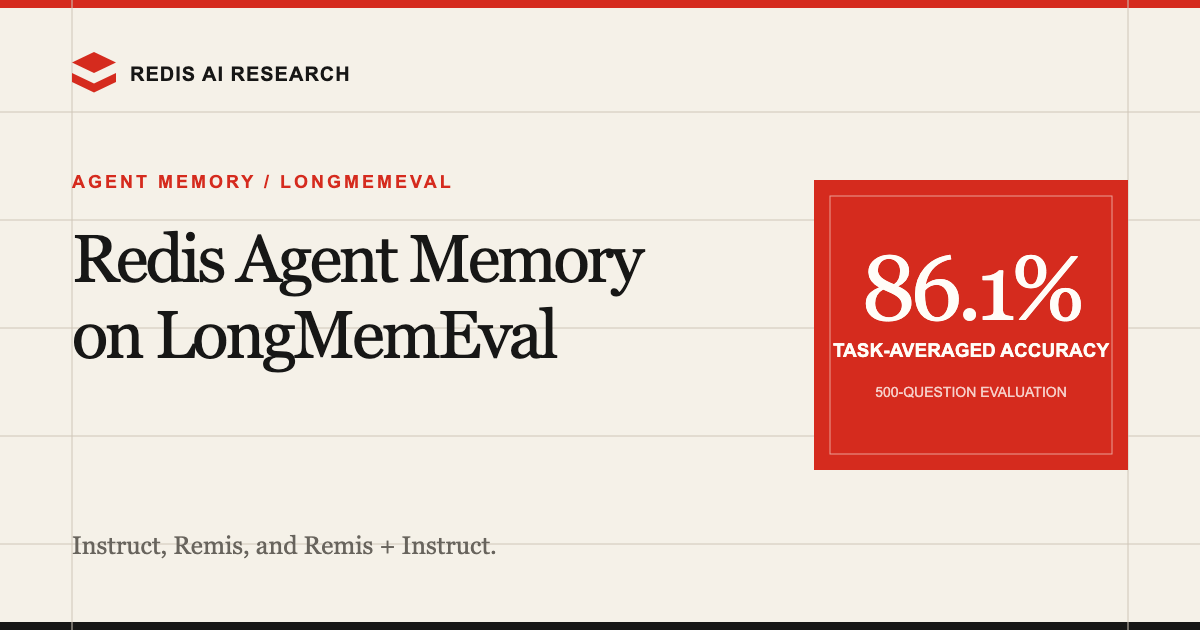
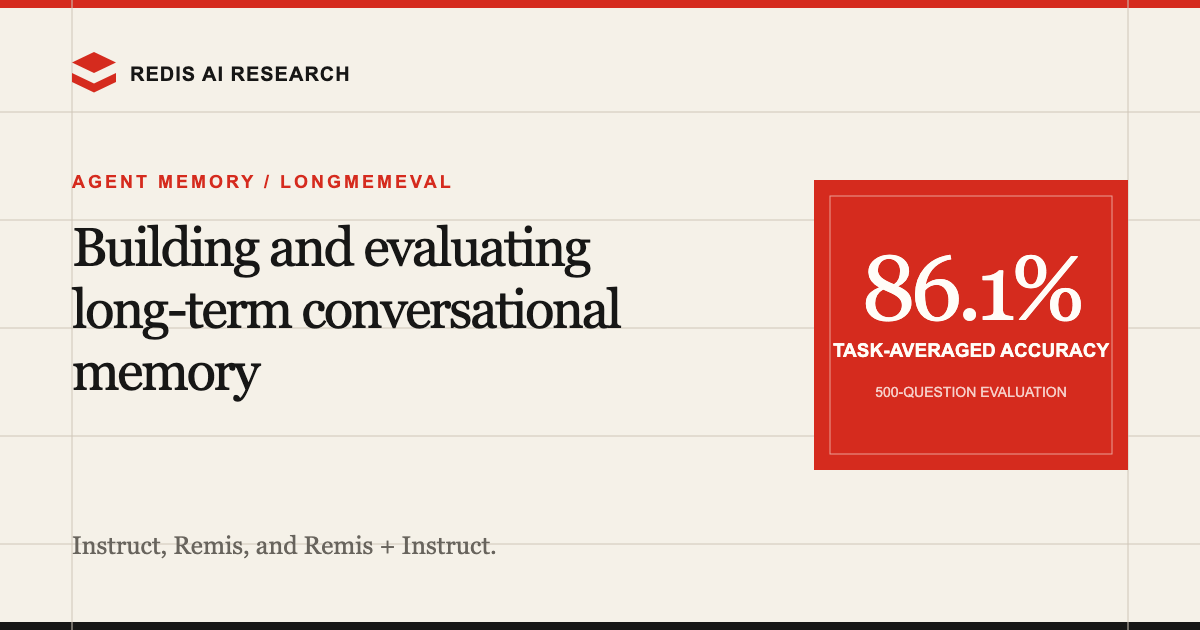
Retitle conversational memory research article
Frame the work around building and evaluating conversational memory rather than a product name, and align homepage and social metadata.

Changed region(s): [[0.0617, 0.3619, 0.555, 0.6333]]

diff --git a/docs/longmemeval-agent-memory/index.html b/docs/longmemeval-agent-memory/index.html
@@ -5,7 +5,7 @@
     <meta name="viewport" content="width=device-width, initial-scale=1.0" />
     <meta
       name="description"
-      content="Results from a 500-question evaluation of Redis Agent Memory strategies on the LongMemEval small split."
+      content="Results from a 500-question evaluation of raw conversation retrieval, extracted memories, and a hybrid configuration on LongMemEval."
     />
     <meta
       name="author"
@@ -13,14 +13,14 @@
     />
     <meta name="theme-color" content="#f5f1e8" />
     <meta property="og:type" content="article" />
-    <meta property="og:title" content="Redis Agent Memory on LongMemEval" />
+    <meta property="og:title" content="Building and evaluating long-term conversational memory" />
     <meta
       property="og:url"
       content="https://redis.github.io/redis-ai-research-public/longmemeval-agent-memory/"
     />
     <meta
       property="og:description"
-      content="A 500-question evaluation of raw conversation retrieval, extracted memories, and a configuration combining both."
+      content="We built and evaluated raw conversation retrieval, extracted memories, and a hybrid approach on 500 LongMemEval questions."
     />
     <meta
       property="og:image"
@@ -30,16 +30,16 @@
     <meta property="og:image:width" content="1200" />
     <meta property="og:image:height" content="630" />
     <meta name="twitter:card" content="summary_large_image" />
-    <meta name="twitter:title" content="Redis Agent Memory on LongMemEval" />
+    <meta name="twitter:title" content="Building and evaluating long-term conversational memory" />
     <meta
       name="twitter:description"
-      content="A 500-question evaluation of raw conversation retrieval, extracted memories, and a configuration combining both."
+      content="We built and evaluated raw conversation retrieval, extracted memories, and a hybrid approach on 500 LongMemEval questions."
     />
     <meta
       name="twitter:image"
       content="https://redis.github.io/redis-ai-research-public/longmemeval-agent-memory/assets/social-card.png"
     />
-    <title>Redis Agent Memory on LongMemEval</title>
+    <title>Building and evaluating long-term conversational memory</title>
     <link rel="stylesheet" href="styles.css?v=20260730-reasoning-effect" />
     <script src="script.js?v=20260730-minimal-tooltips" defer></script>
   </head>
@@ -67,10 +67,11 @@
         <header class="hero" id="top">
           <div class="hero-copy">
             <p class="eyebrow">Agent memory · LongMemEval · June 2026</p>
-            <h1>Redis Agent Memory on LongMemEval</h1>
+            <h1>Building and evaluating long-term conversational memory</h1>
             <p class="dek">
-              We compared raw conversation retrieval, extracted memories, and a combination
-              of the two. Across the completed 500-question evaluation, Remis + Instruct reached
+              We built three approaches to retaining information across conversations—raw
+              retrieval, extracted memories, and a hybrid of both—and evaluated them on 500
+              LongMemEval questions. The hybrid approach reached
               <strong>86.1% task-averaged accuracy</strong>.
             </p>
             <div class="hero-meta">
@@ -117,8 +118,8 @@
 
         <section class="strategy-section" aria-labelledby="strategies-title">
           <div class="section-heading">
-            <p class="section-kicker">Redis Agent Memory</p>
-            <h2 id="strategies-title">Three memory strategies</h2>
+            <p class="section-kicker">Memory strategies</p>
+            <h2 id="strategies-title">Three approaches</h2>
           </div>
 
           <div class="strategy-grid">
@@ -192,7 +193,7 @@
         <section class="results-section" id="results" aria-labelledby="results-title">
           <div class="section-heading">
             <p class="section-kicker">Results</p>
-            <h2 id="results-title">Results for Redis Agent Memory strategies</h2>
+            <h2 id="results-title">Results for the tested strategies</h2>
             <p>
               The figures show overall accuracy, task-level results, and comparisons with
               other memory systems.
@@ -247,7 +248,7 @@
                   <p>LongMemEval small (%)</p>
                 </div>
                 <div class="legend" aria-label="Chart legend">
-                  <span><i class="legend-swatch redis"></i>Redis Agent Memory</span>
+                  <span><i class="legend-swatch redis"></i>Our configurations</span>
                   <span><i class="legend-swatch reproduced"></i>Measured third-party</span>
                   <span><i class="legend-swatch published"></i>Published only</span>
                 </div>
@@ -256,7 +257,7 @@
                 id="leaderboard-chart"
                 class="chart"
                 role="img"
-                aria-label="Leaderboard comparing Redis Agent Memory with measured and published systems"
+                aria-label="Leaderboard comparing our memory configurations with measured and published systems"
               ></div>
             </figure>
             <div class="leaderboard-copy">
@@ -332,7 +333,7 @@
                   <p>Upper-left is better; cost axis is logarithmic</p>
                 </div>
                 <div class="legend" aria-label="Chart legend">
-                  <span><i class="legend-swatch redis"></i>Redis Agent Memory</span>
+                  <span><i class="legend-swatch redis"></i>Our configurations</span>
                   <span><i class="legend-swatch reproduced"></i>Complete third-party</span>
                   <span><i class="legend-swatch qualified"></i>Partial or lower bound</span>
                 </div>

diff --git a/docs/index.html b/docs/index.html
@@ -400,10 +400,10 @@
         </div>
         <div class="grid">
           <article class="card card-featured">
-            <h3>LongMemEval agent-memory evaluation</h3>
+            <h3>Building and evaluating long-term conversational memory</h3>
             <p>
-              We tested several approaches to long-term agent memory on LongMemEval,
-              including a combination of raw conversation retrieval and extracted facts.
+              We developed and evaluated several memory approaches on LongMemEval, including
+              a combination of raw conversation retrieval and extracted facts.
             </p>
             <a class="repo-link" href="longmemeval-agent-memory/">Read the research article →</a>
           </article>
